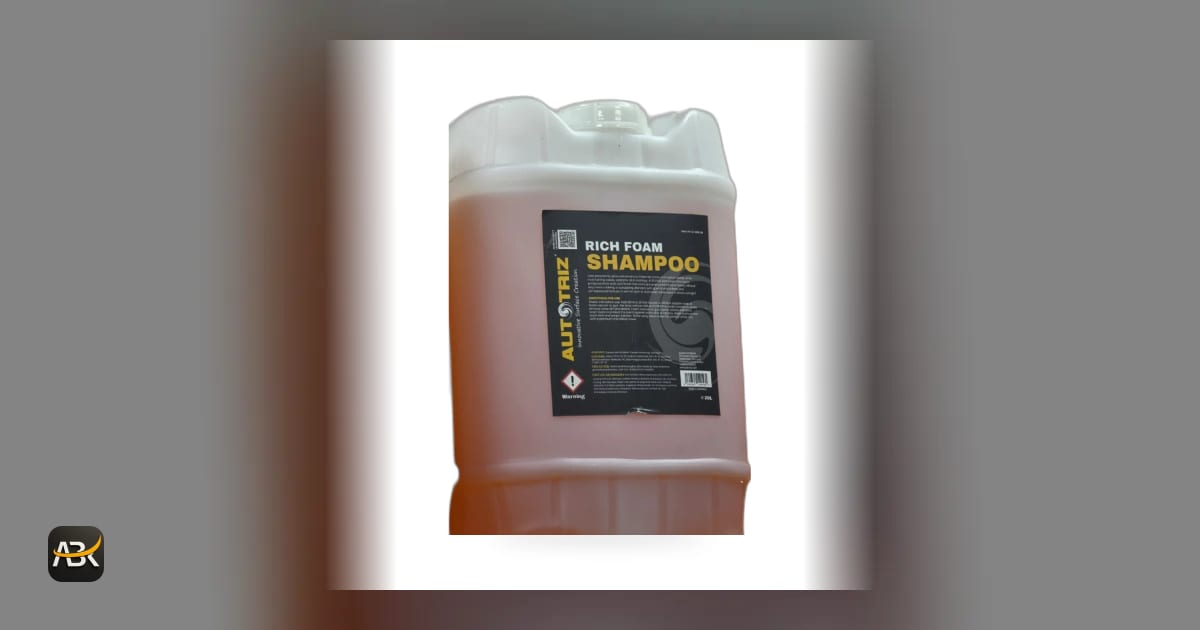
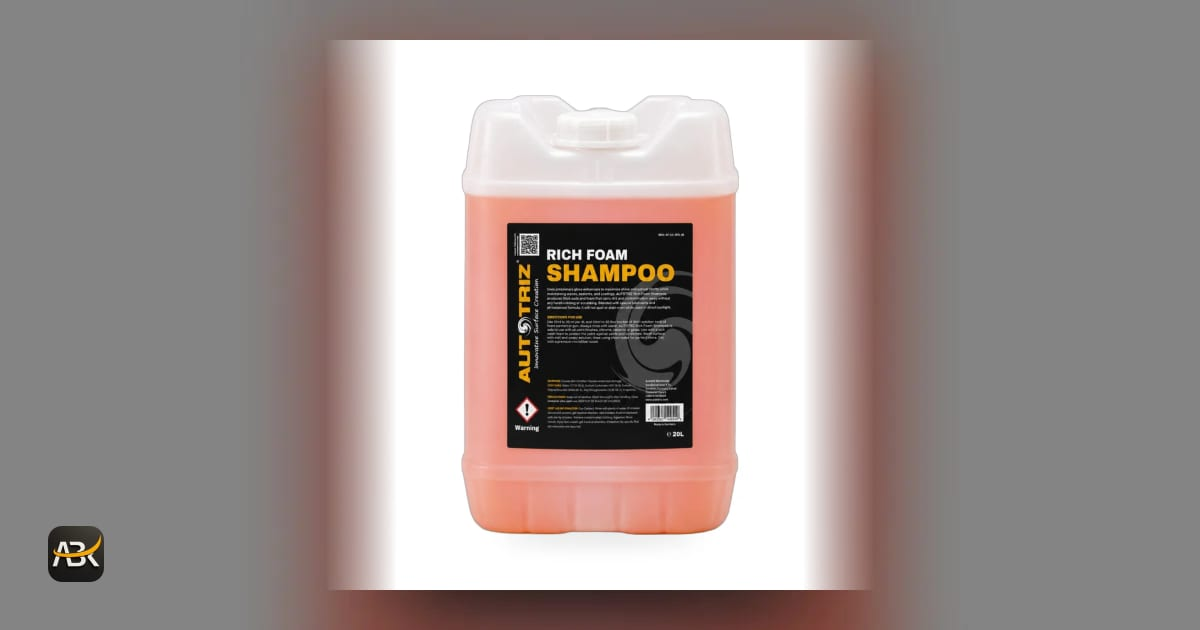
feat(products): update Autotriz Nano Rich Foam Shampoo with PPF specs and studio packshot

diff --git a/src/data/products.ts b/src/data/products.ts
@@ -487,22 +487,25 @@ export const PRODUCTS: Product[] = [
     brand: "Autotriz",
     category: "shampoo",
     name: {
-      en: "Autotriz Rich Foam Shampoo",
-      ar: "Autotriz — شامبو رغوي غني",
+      en: "Autotriz Nano Rich Foam Shampoo (20L)",
+      ar: "Autotriz — شامبو نانو رغوي غني (٢٠ لتر)",
     },
     shortDesc: {
-      en: "pH-balanced, thick-foaming shampoo with gloss enhancers. Made in Germany.",
-      ar: "شامبو رغوي كثيف متوازن الحموضة مع محسّنات لمعان. صُنع في ألمانيا.",
+      en: "Nano coating shampoo for PPF and coated cars — renews PPF top coat, pH-balanced thick foam with 1:80 dilution ratio in 20L bulk drum. Made in Germany.",
+      ar: "شامبو نانو لأفلام الحماية والسيارات المطلية بالسيراميك — يجدد الطبقة العلوية للـ PPF، رغوة كثيفة متوازنة الحموضة بتخفيف ١:٨٠ ببرميل ٢٠ لتر. صُنع في ألمانيا.",
     },
     longDesc: {
-      en: "Autotriz Rich Foam Shampoo uses proprietary gloss enhancers to maximise shine and optical clarity while maintaining waxes, sealants and coatings. Produces thick suds and foam that carry dirt away without rubbing or scrubbing. Blended with special emulsifiers and pH-balanced, it won't spot or stain even in direct sunlight.",
-      ar: "شامبو Autotriz يستخدم محسّنات لمعان متميزة لتعظيم اللمعان والشفافية البصرية مع الحفاظ على الشموع والطلاءات. رغوة كثيفة تحمل الأوساخ دون فرك. تركيبة متوازنة الحموضة لا تترك بقعاً حتى تحت الشمس المباشرة.",
+      en: "AUTOTRIZ Nano Rich Foam Shampoo is a German-engineered, professional nano-coating shampoo designed for PPF-wrapped and ceramic-coated vehicles. Formulated with advanced nano technology, it actively cleans while renewing and revitalizing the PPF top coat and hydrophobic ceramic layers.\n\nProduces thick, lubricating foam that safely lifts dirt and road grime without scratching or swirling. Features a highly economical 1:80 dilution ratio for foam cannons and wash buckets in high-volume detailing centers and car washes.",
+      ar: "شامبو AUTOTRIZ نانو رغوي غني تركيبة ألمانية احترافية معززة بتقنية النانو ومخصصة للسيارات المحمية بأفلام PPF وطلاءات السيراميك. ينظف بعمق ويعمل على تجديد وإنعاش الطبقة العلوية لأفلام الحماية وطبقات الحماية الكارهة للماء.\n\nينتج رغوة كثيفة تزيل الأوساخ ورواسب الطريق بأمان تام ودون إحداث دوامات أو خدوش. نسبة تخفيف اقتصادية ١:٨٠ للاستخدام في مدافع الرغوة ودلاء الغسيل بمراكز التلميع ومحطات الغسيل.",
     },
     images: ["/products/autotriz/autotriz-rich-foam-shampoo-20l.webp"],
     specs: [
       { label: { en: "SKU", ar: "رقم المنتج" }, value: { en: "AT-CC-RFS-20", ar: "AT-CC-RFS-20" } },
       { label: { en: "Size", ar: "الحجم" }, value: { en: "20 L", ar: "٢٠ لتر" } },
-      { label: { en: "Origin", ar: "المنشأ" }, value: { en: "Made in Germany", ar: "صُنع في ألمانيا" } },
+      { label: { en: "Technology", ar: "التقنية" }, value: { en: "Nano Coating & PPF Top Coat Renewer", ar: "تقنية النانو وتجديد طبقة الـ PPF" } },
+      { label: { en: "Dilution", ar: "نسبة التخفيف" }, value: { en: "1:80 with water", ar: "١:٨٠ مع الماء" } },
+      { label: { en: "Application", ar: "الاستخدام" }, value: { en: "Best for PPF & Ceramic Coated Cars", ar: "مثالي لسيارات أفلام الحماية والسيراميك" } },
+      { label: { en: "Origin", ar: "بلد المنشأ" }, value: { en: "Made in Germany", ar: "صُنع في ألمانيا" } },
     ],
     audience: "both",
   },
